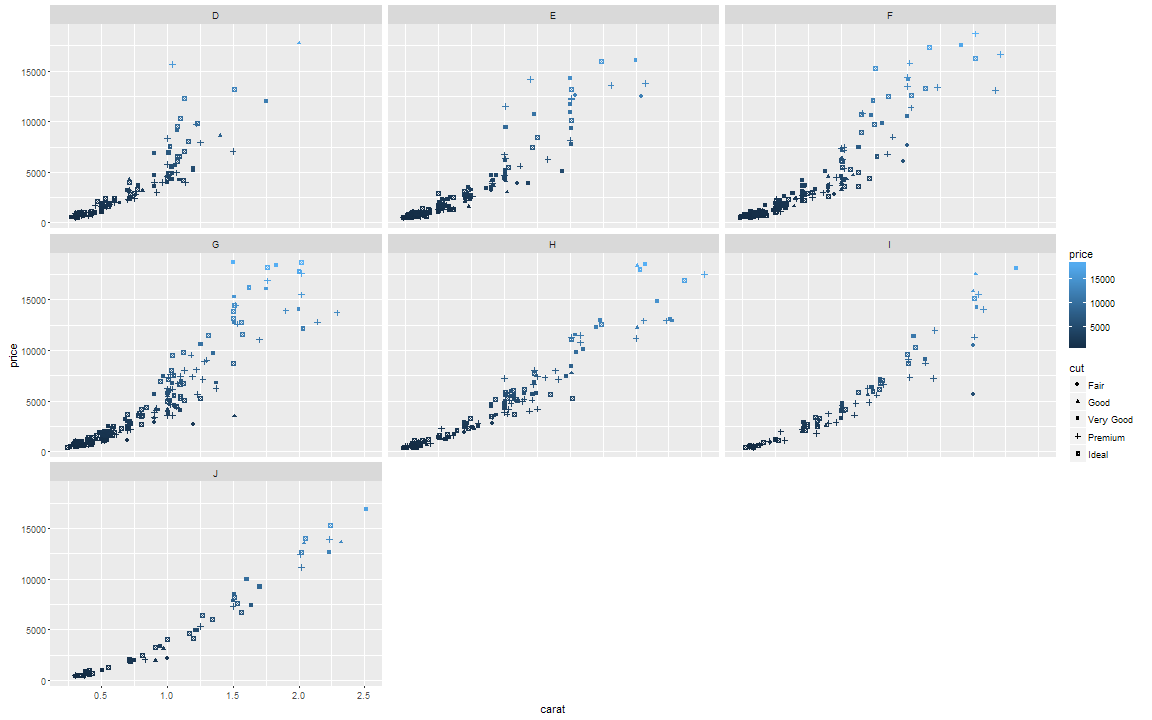
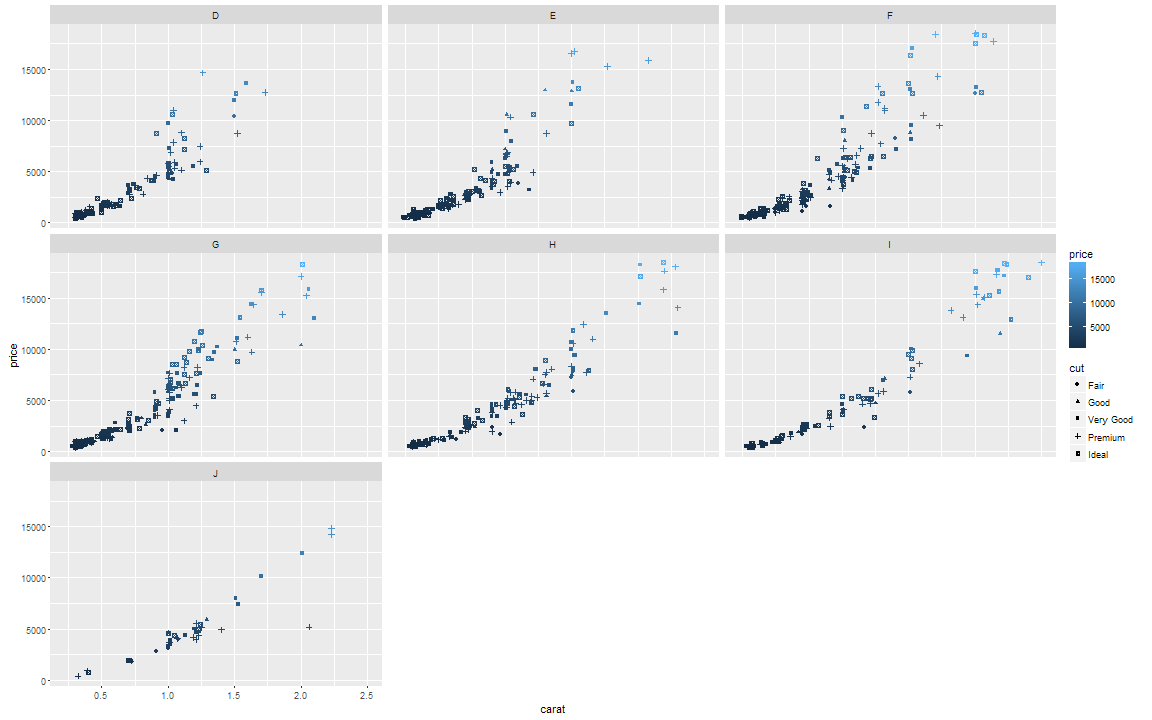
updating r_post_helpers :D

diff --git a/htmlwidgets/just-another-way-to-make-a-r-flavored-blog/d3heatmap_oxujmct.html b/htmlwidgets/just-another-way-to-make-a-r-flavored-blog/d3heatmap_oxujmct.html
@@ -12,9 +12,9 @@
 </head>
 <body style="background-color:white;">
 <div id="htmlwidget_container">
-  <div id="htmlwidget-7227" style="width:960px;height:500px;" class="d3heatmap"></div>
+  <div id="htmlwidget-7854" style="width:960px;height:500px;" class="d3heatmap"></div>
 </div>
[1 lines of base64/hex data omitted]
-<script type="application/htmlwidget-sizing" data-for="htmlwidget-7227">{"viewer":{"width":450,"height":350,"padding":15,"fill":true},"browser":{"width":960,"height":500,"padding":40,"fill":true}}</script>
[1 lines of base64/hex data omitted]
+<script type="application/htmlwidget-sizing" data-for="htmlwidget-7854">{"viewer":{"width":450,"height":350,"padding":15,"fill":true},"browser":{"width":960,"height":500,"padding":40,"fill":true}}</script>
 </body>
 </html>

diff --git a/htmlwidgets/just-another-way-to-make-a-r-flavored-blog/highchart_etbnvpz.html b/htmlwidgets/just-another-way-to-make-a-r-flavored-blog/highchart_etbnvpz.html
@@ -15,9 +15,9 @@
 </head>
 <body style="background-color:white;">
 <div id="htmlwidget_container">
-  <div id="htmlwidget-1064" style="width:100%;height:100%;" class="highchart"></div>
+  <div id="htmlwidget-9869" style="width:100%;height:100%;" class="highchart"></div>
 </div>
-<script type="application/json" data-for="htmlwidget-1064">{"x":{"hc_opts":{"title":{"text":"Testing knit_print.htmlwidget"},"credits":{"enabled":false},"xAxis":{"type":"datetime"},"series":[{"name":"Passengers","data":[[-662688000000,112],[-660009600000,118],[-657590400000,132],[-654912000000,129],[-652320000000,121],[-649641600000,135],[-647049600000,148],[-644371200000,148],[-641692800000,136],[-639100800000,119],[-636422400000,104],[-633830400000,118],[-631152000000,115],[-628473600000,126],[-626054400000,141],[-623376000000,135],[-620784000000,125],[-618105600000,149],[-615513600000,170],[-612835200000,170],[-610156800000,158],[-607564800000,133],[-604886400000,114],[-602294400000,140],[-599616000000,145],[-596937600000,150],[-594518400000,178],[-591840000000,163],[-589248000000,172],[-586569600000,178],[-583977600000,199],[-581299200000,199],[-578620800000,184],[-576028800000,162],[-573350400000,146],[-570758400000,166],[-568080000000,171],[-565401600000,180],[-562896000000,193],[-560217600000,181],[-557625600000,183],[-554947200000,218],[-552355200000,230],[-549676800000,242],[-546998400000,209],[-544406400000,191],[-541728000000,172],[-539136000000,194],[-536457600000,196],[-533779200000,196],[-531360000000,236],[-528681600000,235],[-526089600000,229],[-523411200000,243],[-520819200000,264],[-518140800000,272],[-515462400000,237],[-512870400000,211],[-510192000000,180],[-507600000000,201],[-504921600000,204],[-502243200000,188],[-499824000000,235],[-497145600000,227],[-494553600000,234],[-491875200000,264],[-489283200000,302],[-486604800000,293],[-483926400000,259],[-481334400000,229],[-478656000000,203],[-476064000000,229],[-473385600000,242],[-470707200000,233],[-468288000000,267],[-465609600000,269],[-463017600000,270],[-460339200000,315],[-457747200000,364],[-455068800000,347],[-452390400000,312],[-449798400000,274],[-447120000000,237],[-444528000000,278],[-441849600000,284],[-439171200000,277],[-436665600000,317],[-433987200000,313],[-431395200000,318],[-428716800000,374],[-426124800000,413],[-423446400000,405],[-420768000000,355],[-418176000000,306],[-415497600000,271],[-412905600000,306],[-410227200000,315],[-407548800000,301],[-405129600000,356],[-402451200000,348],[-399859200000,355],[-397180800000,422],[-394588800000,465],[-391910400000,467],[-389232000000,404],[-386640000000,347],[-383961600000,305],[-381369600000,336],[-378691200000,340],[-376012800000,318],[-373593600000,362],[-370915200000,348],[-368323200000,363],[-365644800000,435],[-363052800000,491],[-360374400000,505],[-357696000000,404],[-355104000000,359],[-352425600000,310],[-349833600000,337],[-347155200000,360],[-344476800000,342],[-342057600000,406],[-339379200000,396],[-336787200000,420],[-334108800000,472],[-331516800000,548],[-328838400000,559],[-326160000000,463],[-323568000000,407],[-320889600000,362],[-318297600000,405],[-315619200000,417],[-312940800000,391],[-310435200000,419],[-307756800000,461],[-305164800000,472],[-302486400000,535],[-299894400000,622],[-297216000000,606],[-294537600000,508],[-291945600000,461],[-289267200000,390],[-286675200000,432]]}]},"theme":{"colors":["#f45b5b","#8085e9","#8d4654","#7798BF","#aaeeee","#ff0066","#eeaaee","#55BF3B","#DF5353","#7798BF","#aaeeee"],"chart":{"backgroundColor":null,"divBackgroundImage":"http://www.highcharts.com/samples/graphics/sand.png","style":{"fontFamily":"Signika, serif"}},"title":{"style":{"color":"black","fontSize":"16px","fontWeight":"bold"}},"subtitle":{"style":{"color":"black"}},"tooltip":{"borderWidth":0},"legend":{"itemStyle":{"fontWeight":"bold","fontSize":"13px"}},"xAxis":{"labels":{"style":{"color":"#6e6e70"}}},"yAxis":{"labels":{"style":{"color":"#6e6e70"}}},"plotOptions":{"series":{"shadow":true},"candlestick":{"lineColor":"#404048"},"map":{"shadow":false}},"navigator":{"xAxis":{"gridLineColor":"#D0D0D8"}},"rangeSelector":{"buttonTheme":{"fill":"white","stroke":"#C0C0C8","stroke-width":1,"states":{"select":{"fill":"#D0D0D8"}}}},"scrollbar":{"trackBorderColor":"#C0C0C8"},"background2":"#E0E0E8"},"conf_opts":{"global":{"Date":null,"VMLRadialGradientURL":"http =//code.highcharts.com/list(version)/gfx/vml-radial-gradient.png","canvasToolsURL":"http =//code.highcharts.com/list(version)/modules/canvas-tools.js","getTimezoneOffset":null,"timezoneOffset":0,"useUTC":true},"lang":{"contextButtonTitle":"Chart context menu","decimalPoint":".","downloadJPEG":"Download JPEG image","downloadPDF":"Download PDF document","downloadPNG":"Download PNG image","downloadSVG":"Download SVG vector image","drillUpText":"Back to list(series.name)","invalidDate":null,"loading":"Loading...","months":["January","February","March","April","May","June","July","August","September","October","November","December"],"noData":"No data to display","numericSymbols":["k","M","G","T","P","E"],"printChart":"Print chart","resetZoom":"Reset zoom","resetZoomTitle":"Reset zoom level 1:1","shortMonths":["Jan","Feb","Mar","Apr","May","Jun","Jul","Aug","Sep","Oct","Nov","Dec"],"thousandsSep":" ","weekdays":["Sunday","Monday","Tuesday","Wednesday","Thursday","Friday","Saturday"]}},"debug":false,"fonts":"Signika"},"evals":[]}</script>
-<script type="application/htmlwidget-sizing" data-for="htmlwidget-1064">{"viewer":{"width":"100%","height":"100%","padding":15,"fill":false},"browser":{"width":"100%","height":"100%","padding":40,"fill":false}}</script>
+<script type="application/json" data-for="htmlwidget-9869">{"x":{"hc_opts":{"title":{"text":"Testing knit_print.htmlwidget"},"credits":{"enabled":false},"xAxis":{"type":"datetime"},"series":[{"name":"Passengers","data":[[-662688000000,112],[-660009600000,118],[-657590400000,132],[-654912000000,129],[-652320000000,121],[-649641600000,135],[-647049600000,148],[-644371200000,148],[-641692800000,136],[-639100800000,119],[-636422400000,104],[-633830400000,118],[-631152000000,115],[-628473600000,126],[-626054400000,141],[-623376000000,135],[-620784000000,125],[-618105600000,149],[-615513600000,170],[-612835200000,170],[-610156800000,158],[-607564800000,133],[-604886400000,114],[-602294400000,140],[-599616000000,145],[-596937600000,150],[-594518400000,178],[-591840000000,163],[-589248000000,172],[-586569600000,178],[-583977600000,199],[-581299200000,199],[-578620800000,184],[-576028800000,162],[-573350400000,146],[-570758400000,166],[-568080000000,171],[-565401600000,180],[-562896000000,193],[-560217600000,181],[-557625600000,183],[-554947200000,218],[-552355200000,230],[-549676800000,242],[-546998400000,209],[-544406400000,191],[-541728000000,172],[-539136000000,194],[-536457600000,196],[-533779200000,196],[-531360000000,236],[-528681600000,235],[-526089600000,229],[-523411200000,243],[-520819200000,264],[-518140800000,272],[-515462400000,237],[-512870400000,211],[-510192000000,180],[-507600000000,201],[-504921600000,204],[-502243200000,188],[-499824000000,235],[-497145600000,227],[-494553600000,234],[-491875200000,264],[-489283200000,302],[-486604800000,293],[-483926400000,259],[-481334400000,229],[-478656000000,203],[-476064000000,229],[-473385600000,242],[-470707200000,233],[-468288000000,267],[-465609600000,269],[-463017600000,270],[-460339200000,315],[-457747200000,364],[-455068800000,347],[-452390400000,312],[-449798400000,274],[-447120000000,237],[-444528000000,278],[-441849600000,284],[-439171200000,277],[-436665600000,317],[-433987200000,313],[-431395200000,318],[-428716800000,374],[-426124800000,413],[-423446400000,405],[-420768000000,355],[-418176000000,306],[-415497600000,271],[-412905600000,306],[-410227200000,315],[-407548800000,301],[-405129600000,356],[-402451200000,348],[-399859200000,355],[-397180800000,422],[-394588800000,465],[-391910400000,467],[-389232000000,404],[-386640000000,347],[-383961600000,305],[-381369600000,336],[-378691200000,340],[-376012800000,318],[-373593600000,362],[-370915200000,348],[-368323200000,363],[-365644800000,435],[-363052800000,491],[-360374400000,505],[-357696000000,404],[-355104000000,359],[-352425600000,310],[-349833600000,337],[-347155200000,360],[-344476800000,342],[-342057600000,406],[-339379200000,396],[-336787200000,420],[-334108800000,472],[-331516800000,548],[-328838400000,559],[-326160000000,463],[-323568000000,407],[-320889600000,362],[-318297600000,405],[-315619200000,417],[-312940800000,391],[-310435200000,419],[-307756800000,461],[-305164800000,472],[-302486400000,535],[-299894400000,622],[-297216000000,606],[-294537600000,508],[-291945600000,461],[-289267200000,390],[-286675200000,432]]}]},"theme":{"colors":["#f45b5b","#8085e9","#8d4654","#7798BF","#aaeeee","#ff0066","#eeaaee","#55BF3B","#DF5353","#7798BF","#aaeeee"],"chart":{"backgroundColor":null,"divBackgroundImage":"http://www.highcharts.com/samples/graphics/sand.png","style":{"fontFamily":"Signika, serif"}},"title":{"style":{"color":"black","fontSize":"16px","fontWeight":"bold"}},"subtitle":{"style":{"color":"black"}},"tooltip":{"borderWidth":0},"legend":{"itemStyle":{"fontWeight":"bold","fontSize":"13px"}},"xAxis":{"labels":{"style":{"color":"#6e6e70"}}},"yAxis":{"labels":{"style":{"color":"#6e6e70"}}},"plotOptions":{"series":{"shadow":true},"candlestick":{"lineColor":"#404048"},"map":{"shadow":false}},"navigator":{"xAxis":{"gridLineColor":"#D0D0D8"}},"rangeSelector":{"buttonTheme":{"fill":"white","stroke":"#C0C0C8","stroke-width":1,"states":{"select":{"fill":"#D0D0D8"}}}},"scrollbar":{"trackBorderColor":"#C0C0C8"},"background2":"#E0E0E8"},"conf_opts":{"global":{"Date":null,"VMLRadialGradientURL":"http =//code.highcharts.com/list(version)/gfx/vml-radial-gradient.png","canvasToolsURL":"http =//code.highcharts.com/list(version)/modules/canvas-tools.js","getTimezoneOffset":null,"timezoneOffset":0,"useUTC":true},"lang":{"contextButtonTitle":"Chart context menu","decimalPoint":".","downloadJPEG":"Download JPEG image","downloadPDF":"Download PDF document","downloadPNG":"Download PNG image","downloadSVG":"Download SVG vector image","drillUpText":"Back to list(series.name)","invalidDate":null,"loading":"Loading...","months":["January","February","March","April","May","June","July","August","September","October","November","December"],"noData":"No data to display","numericSymbols":["k","M","G","T","P","E"],"printChart":"Print chart","resetZoom":"Reset zoom","resetZoomTitle":"Reset zoom level 1:1","shortMonths":["Jan","Feb","Mar","Apr","May","Jun","Jul","Aug","Sep","Oct","Nov","Dec"],"thousandsSep":" ","weekdays":["Sunday","Monday","Tuesday","Wednesday","Thursday","Friday","Saturday"]}},"debug":false,"fonts":"Signika"},"evals":[]}</script>
+<script type="application/htmlwidget-sizing" data-for="htmlwidget-9869">{"viewer":{"width":"100%","height":"100%","padding":15,"fill":false},"browser":{"width":"100%","height":"100%","padding":40,"fill":false}}</script>
 </body>
 </html>

diff --git a/css/main.css b/css/main.css
@@ -322,6 +322,10 @@ article strong {
   font-weight: bold;
 }
 
+article code {
+   font-family: "Consolas", "Liberation Mono", "Menlo", "Courier", "monospace";
+}
+
 article iframe {
   border: none;
   background: transparent;

diff --git a/_posts/2015-08-07-just-another-way-to-make-a-r-flavored-blog.md b/_posts/2015-08-07-just-another-way-to-make-a-r-flavored-blog.md
@@ -35,6 +35,13 @@ ls()
 to change css XD.
 1. Other consideration
 
+### Style ####
+
+*This is single asterisc*.
+
+**This is double asterics**
+
+Single `code? this is working`  
 ### Show and load data frames ####
 
 
@@ -63,12 +70,12 @@ head(test)
 
 | carat|cut       |color |clarity | depth| table| price|    x|    y|    z|
 |-----:|:---------|:-----|:-------|-----:|-----:|-----:|----:|----:|----:|
-|  0.51|Ideal     |G     |VVS2    |  61.6|    56|  1842| 5.14| 5.12| 3.16|
-|  0.30|Premium   |D     |VS2     |  61.0|    60|   911| 4.33| 4.29| 2.63|
-|  1.01|Premium   |F     |VS2     |  62.3|    58|  6271| 6.34| 6.30| 3.94|
-|  1.01|Very Good |I     |SI1     |  63.3|    54|  4749| 6.34| 6.36| 4.02|
-|  0.31|Ideal     |F     |IF      |  60.2|    57|  1155| 4.38| 4.44| 2.65|
-|  0.52|Very Good |D     |SI1     |  63.3|    58|  1605| 5.15| 5.12| 3.25|
+|  2.30|Premium   |H     |SI2     |  60.6|    59| 14042| 8.40| 8.37| 5.08|
+|  0.51|Ideal     |G     |SI1     |  61.9|    56|  1321| 5.11| 5.17| 3.17|
+|  1.24|Ideal     |G     |VVS2    |  61.1|    56| 11601| 6.94| 6.97| 4.25|
+|  0.70|Very Good |D     |VS2     |  60.6|    60|  3668| 5.71| 5.75| 3.47|
+|  0.55|Premium   |F     |VS2     |  62.7|    58|  2376| 5.28| 5.25| 3.30|
+|  0.37|Premium   |D     |VVS2    |  61.0|    60|  1071| 4.61| 4.64| 2.82|
 
 ```r
 getwd()
@@ -113,23 +120,23 @@ knit_print.htmlwidget
 
 ```
 ## function(x, ..., options = NULL){
-##   
-##   wdgtclass <- setdiff(class(x), "htmlwidget")[1]
-##   wdgtrndnm <- paste0(sample(letters, size = 7), collapse = "")
-##   wdgtfname <- sprintf("htmlwidgets/%s/%s_%s.html", folder_name, wdgtclass, wdgtrndnm)
-##   
-##   suppressWarnings(try(dir.create(sprintf(sprintf("htmlwidgets/%s", folder_name)))))
-##   
-##   htmlwidgets::saveWidget(x, file = "wdgettemp.html", selfcontained = TRUE)
-##   
-##   file.copy("wdgettemp.html", wdgtfname, overwrite = TRUE)
-##   file.remove("wdgettemp.html")
-##   
-##   iframetxt <- sprintf("<iframe src=\"/%s\"></iframe>", wdgtfname)
-##   
-##   knitr::asis_output(iframetxt)
-##   
-## }
+##     
+##     wdgtclass <- setdiff(class(x), "htmlwidget")[1]
+##     wdgtrndnm <- paste0(sample(letters, size = 7), collapse = "")
+##     wdgtfname <- sprintf("htmlwidgets/%s/%s_%s.html", folder_name, wdgtclass, wdgtrndnm)
+##     
+##     suppressWarnings(try(dir.create(sprintf(sprintf("htmlwidgets/%s", folder_name)))))
+##     
+##     htmlwidgets::saveWidget(x, file = "wdgettemp.html", selfcontained = TRUE)
+##     
+##     file.copy("wdgettemp.html", wdgtfname, overwrite = TRUE)
+##     file.remove("wdgettemp.html")
+##     
+##     iframetxt <- sprintf("<iframe src=\"/%s\"></iframe>", wdgtfname)
+##     
+##     knitr::asis_output(iframetxt)
+##   }
+## <environment: 0x0000000016da4318>
 ```
 
 ```r
@@ -143,15 +150,19 @@ x <- highchart() %>%
 x
 ```
 
-<iframe src="/htmlwidgets/just-another-way-to-make-a-r-flavored-blog/highchart_ertnjsl.html"></iframe>
+<iframe src="/htmlwidgets/just-another-way-to-make-a-r-flavored-blog/highchart_etbnvpz.html"></iframe>
 
 ```r
 library("d3heatmap")
 
-d3heatmap(mtcars, scale="column", colors="Blues")
+url <- "http://datasets.flowingdata.com/ppg2008.csv"
+
+nba_players <- read.csv(url, row.names = 1)
+
+d3heatmap(nba_players, scale = "column")
 ```
 
-<iframe src="/htmlwidgets/just-another-way-to-make-a-r-flavored-blog/d3heatmap_dywtkhj.html"></iframe>
+<iframe src="/htmlwidgets/just-another-way-to-make-a-r-flavored-blog/d3heatmap_oxujmct.html"></iframe>
 
 ### Show external images ####
 
